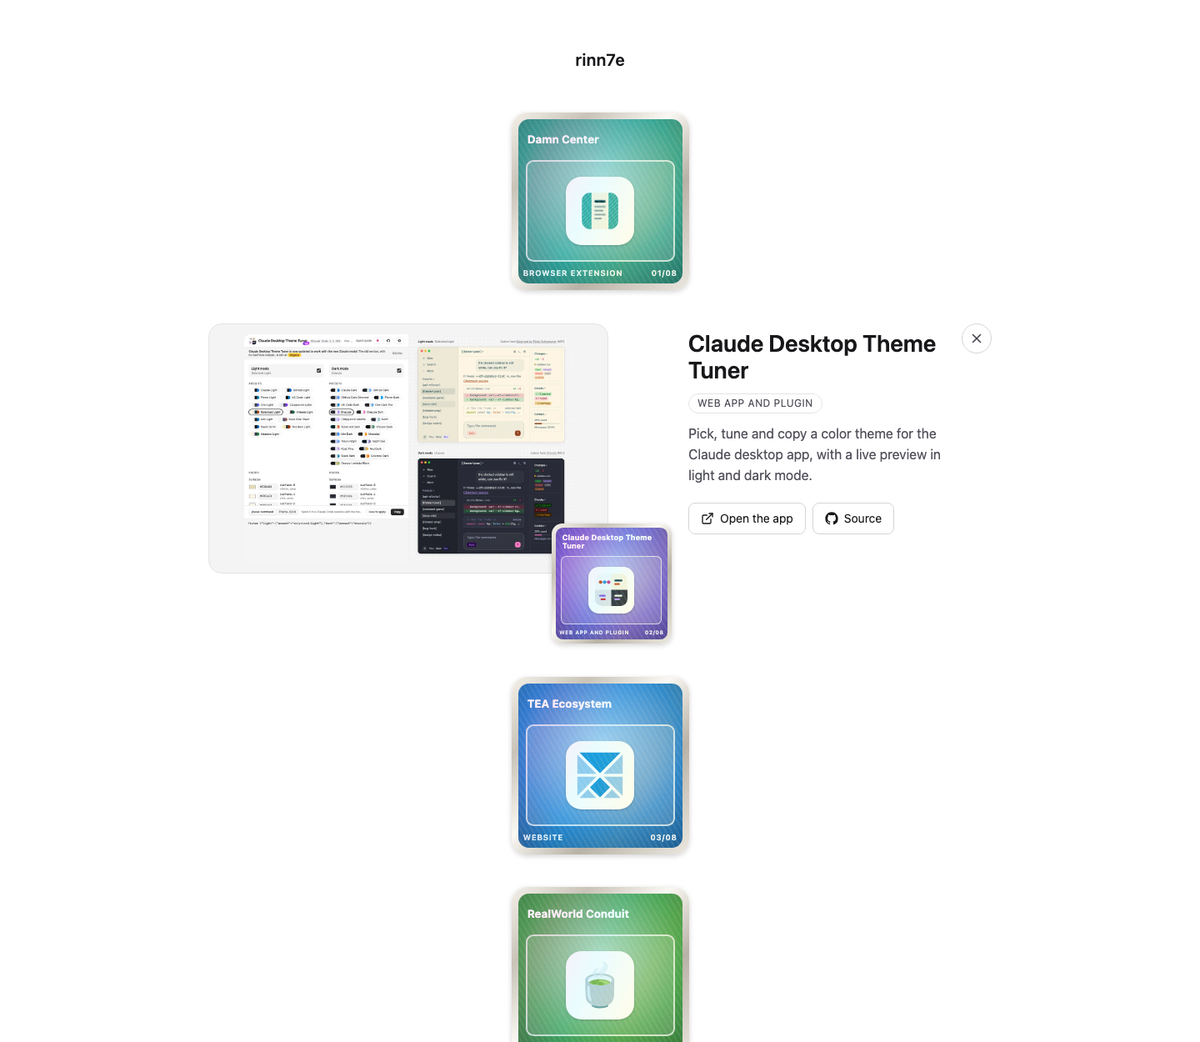
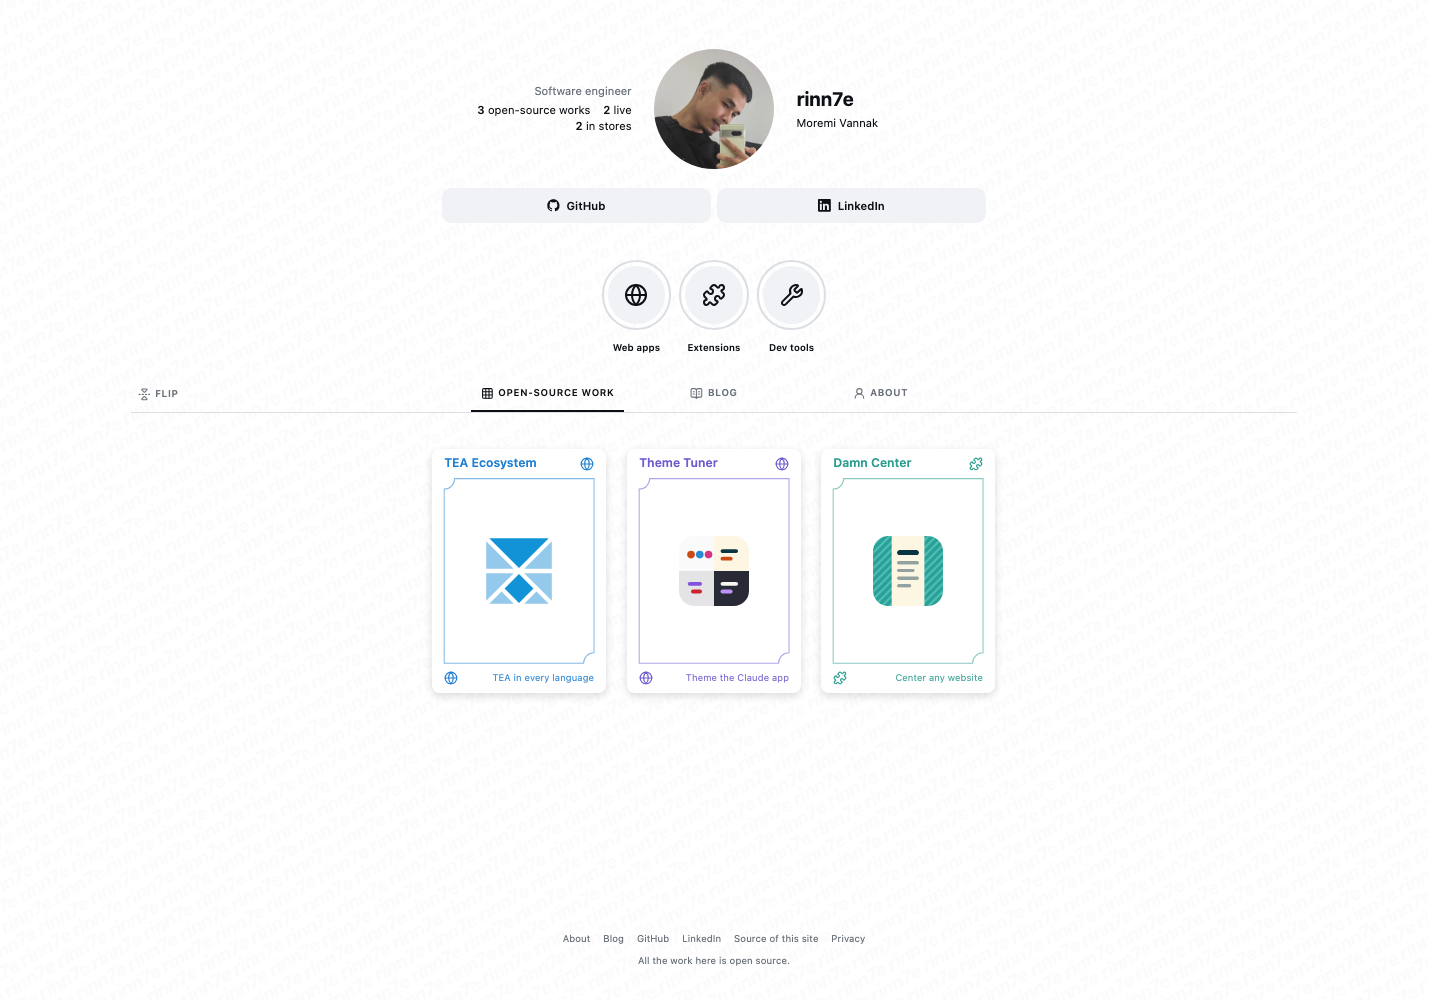
Bring the README up to date with the site and the blog
The intro now names the links of the profile, the Flip button, the New
mark of recent posts, the theme that follows the system, and the page here
as the canonical home of each post. "Add a blog post" now starts from a
post written here (its front matter, its pictures, a dark version of a
picture), then says how to cross-post it to dev.to (the canonical URL,
pictures as PNG or WebP, `devToUrl` without `devToId`), and keeps the
import for the older posts. The screenshot shows the site of today.

diff --git a/README.md b/README.md
@@ -13,7 +13,7 @@
   <a href="LICENSE"><img src="https://img.shields.io/github/license/rinn7e/rinn7e.github.io" alt="License: GPL-3.0"></a>
 </p>
 
-[rinn7e.com](https://rinn7e.com/) is laid out like a profile page: my photo, the counts of the products, highlights for the product categories (each filters the grid) and three tabs, Open-source work, Blog and About, with a Privacy page in the footer. The Open-source work tab is a grid of portrait playing cards, one per project, that tilt under the pointer. A click opens a popup: the card flies into it with a spin while a slideshow of its screenshots, a short description and its links (the live app, the browser stores, the code) fade in. The Blog tab lists my posts, newest first, each readable on its own page with a link to its original on [dev.to](https://dev.to/rinn7e). The About tab links my LinkedIn and my GitHub.
+[rinn7e.com](https://rinn7e.com/) is laid out like a profile page: my photo and name, the counts of the products, links to my GitHub and LinkedIn, highlights for the product categories (each filters the grid) and three tabs, Open-source work, Blog and About, with a Privacy page in the footer. The Open-source work tab is a grid of portrait playing cards, one per project, that tilt under the pointer, and the Flip button turns them all over to their backs. A click opens a popup: the card flies into it with a spin while a slideshow of its screenshots, a short description and its links (the live app, the browser stores, the code) fade in. The Blog tab lists my posts, newest first, with the posts of the last 30 days marked New. Each post has its own page here, its canonical home; a post that is also on [dev.to](https://dev.to/rinn7e) links to its discussion there. The site follows the light or dark theme of the system. The About tab links my LinkedIn and my GitHub.
 
 ## Screenshot
 
@@ -29,13 +29,42 @@ Only public repositories go here, and no libraries.
 
 ## Add a blog post
 
-The posts are copies of my posts on [dev.to](https://dev.to/rinn7e): one Markdown file each in `content/blog/<slug>.md`, with a front matter (the title, the description, the day, the tags, the dev.to address as the canonical URL and the dev.to id), then the body as written on dev.to. Their pictures are in `public/blog/<slug>/`, so the site shows them from itself.
+Each post is one Markdown file, `content/blog/<slug>.md`: a front matter, then the body. The slug is its address, `/blog/<slug>`.
+
+```yaml
+---
+title: Command Sourcing vs Event Sourcing
+description: One or two sentences, shown in the list and in link previews.
+date: 2026-11-26
+tags:
+  - architecture
+  - database
+---
+```
+
+Its pictures go in `public/blog/<slug>/`, and the body links them as `/blog/<slug>/<name>.<ext>`. A picture may also have a version for the dark theme, `<name>.dark.<ext>` next to it: the page then shows the one that matches the theme of the system. A picture without one is shown in both themes.
+
+The build renders the Markdown to HTML, with the code colored by highlight.js (`tool/blog/`), so the browser gets no Markdown code. Raw HTML in a post is shown as text. Prettier leaves `content/` alone, so a post stays as written.
+
+### Cross-post to dev.to
+
+A post is written here first, then copied to dev.to:
+
+1. Give the copy the canonical URL `https://rinn7e.com/blog/<slug>/` (`canonical_url` in the front matter of the editor of dev.to), so search engines count the post here.
+2. Give its pictures absolute addresses, as PNG or WebP. dev.to serves an SVG with the type `image/webp`, and browsers do not draw it; uploading the pictures in the editor of dev.to works.
+3. To link the copy from the page here (a dev.to link and "Join the discussion"), add `devToUrl: <its address on dev.to>` to the front matter of the post. Do not add `devToId`: the import would then replace the file with the copy.
+
+Keep the title the same on both sides: the import leaves a post without `devToId` alone and skips the dev.to post of the same slug, but a copy under another title would come back as a second file.
+
+### Import from dev.to
+
+The older posts were first written on [dev.to](https://dev.to/rinn7e) and are copied here, with `devToUrl` and `devToId` in their front matter. Their pictures are in `public/blog/<slug>/`, so the site shows them from itself.
 
 ```bash
 pnpm run blog:import
 ```
 
-The import reads every post through the public API of dev.to, writes its file and saves its pictures. A post imported before keeps its file and its slug (rename the file to change its address); a new one gets the slug of dev.to without its random ending. Read the diff before committing. The build renders the Markdown to HTML, with the code colored by highlight.js (`tool/blog/`), so the browser gets no Markdown code. Prettier leaves `content/` alone, so a post stays as written.
+The import reads every post through the public API of dev.to, writes its file and saves its pictures. A post imported before keeps its file and its slug (rename the file to change its address); a new one gets the slug of dev.to without its random ending. Read the diff before committing.
 
 ## Development
 
